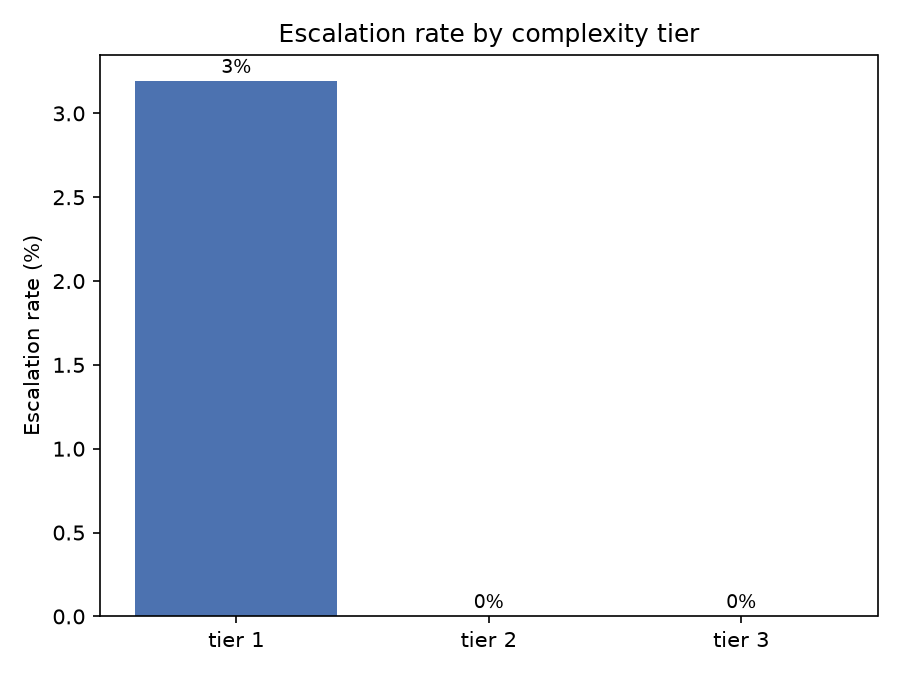
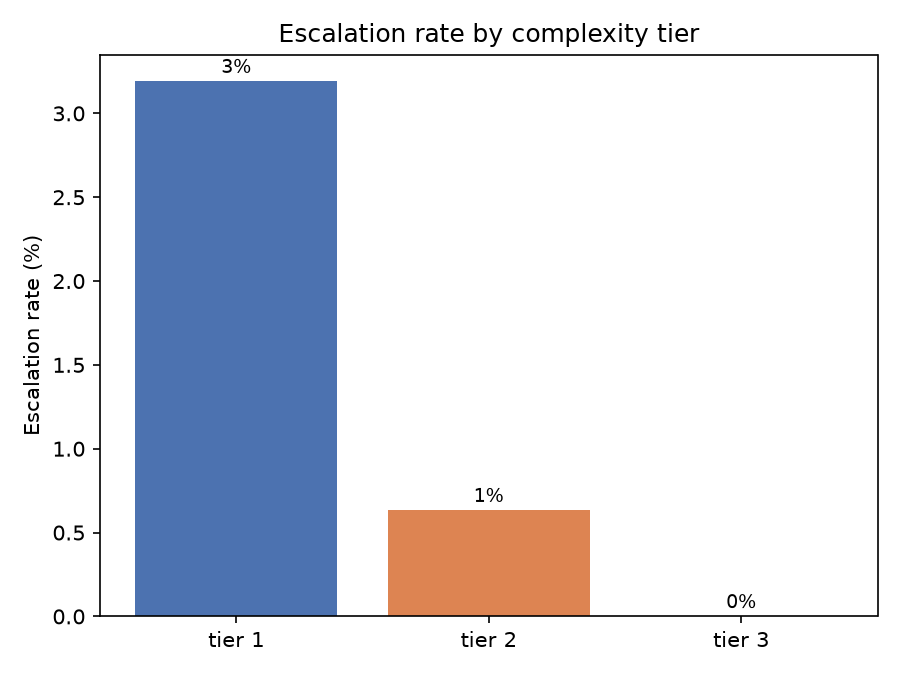
Confirm the fix with a second independent 500-request run
Same result within noise: 20.35% true net (vs. 20.32% the first time),
1.4% escalation rate (vs. 1.2%), general-bucket false-escalation rate
11% (vs. 9%). No code changes between the two runs - this is
reproducibility, not a re-test of something that changed.

Changed region(s): [[0.4044, 0.7156, 0.6533, 0.9333]]

diff --git a/docs/cost_fix_results.md b/docs/cost_fix_results.md
@@ -22,6 +22,12 @@ about the routing logic changed. The entire swing, from losing money to
 saving over a fifth of the baseline, came from fixing how verification
 checks quality and how often it bothers to.
 
+**Reproducibility check (2026-09-17):** ran the identical load test again,
+independently, after unrelated documentation fixes (no code changes) —
+20.35% true net (vs. 20.32%), 1.4% escalation rate (vs. 1.2%), `general`-
+bucket false-escalation rate 11% (vs. 9%). Two independent live runs, same
+result to within noise. The fix isn't a one-off lucky sample.
+
 ## What each fix contributed
 
 **Sampling (verify ~20% of non-top-tier requests instead of 100%)** cut
